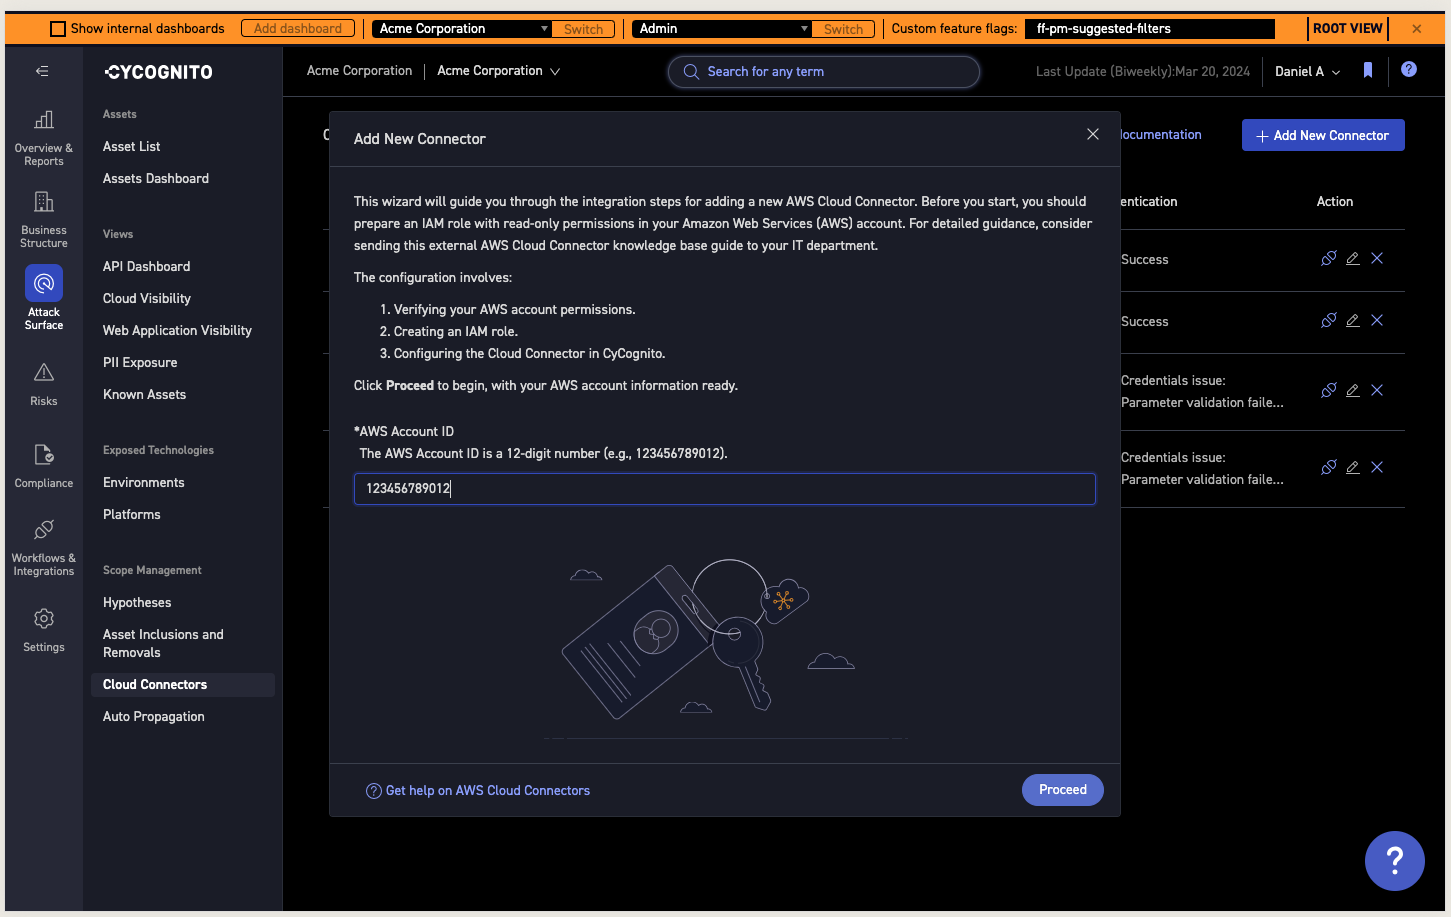
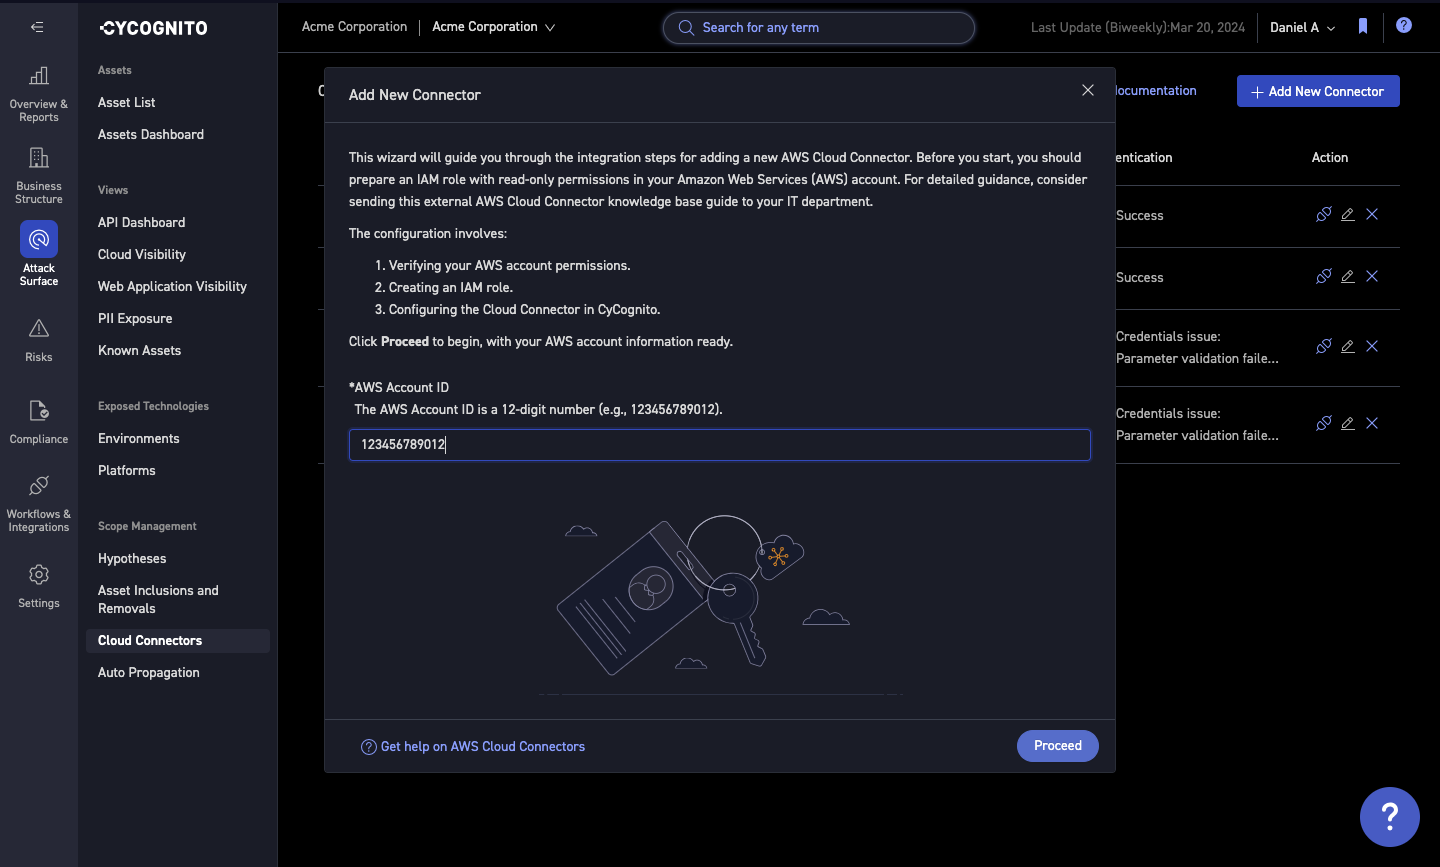
Fix image centering at the actual cause: glightbox's trigger anchor
The earlier centering fix (display: block + margin-inline: auto on img)
only centered each image within its own glightbox anchor, which shrink-wraps
tightly around the image and is itself inline by default -- so the anchor
sat flush left regardless. Center the anchor instead (display: table +
margin-inline: auto, so it shrink-wraps like inline-block but still honors
auto-margin centering), with a full-width override for What-I-do pages so
their glightbox anchor doesn't collapse a width: 100% image down to its
intrinsic size.

Claude-Session: https://claude.ai/code/session_01CMYMMTHiFtCLsuz2LbpPuw

diff --git a/docs/stylesheets/carcharias-material-overrides.css b/docs/stylesheets/carcharias-material-overrides.css
@@ -492,12 +492,40 @@
    without display: block the auto margins below would have no effect and
    the image would sit flush left instead. Every image in the article body
    sits alone on its own line (never mid-sentence), so blockifying every
-   .md-typeset img is safe sitewide. */
+   .md-typeset img is safe sitewide. NOTE: glightbox wraps almost every one
+   of these images in its own <a class="glightbox"> (see .md-typeset
+   .glightbox below) -- centering the img alone only centers it within that
+   inline anchor's own shrink-wrapped box, which has no spare width to
+   center into. The anchor is the box that actually needs the centering;
+   this rule stays too since a couple of things (the hero photo) opt out of
+   glightbox entirely and rely on it directly. */
 .md-typeset img {
   display: block;
   max-width: var(--cs-thumb-width);
   height: auto;
   margin-inline: auto;
+}
+
+/* The actual fix for image centering: glightbox's trigger anchor is inline
+   by default, so it shrink-wraps around the image and then sits flush left
+   (default text-align) instead of centering -- this is what was really
+   causing the "narrower band, left-aligned" look, not the img itself.
+   display: table shrink-wraps to the image's rendered size (unlike block,
+   which would stretch full-width) while still honoring margin-inline: auto
+   centering (unlike inline-block, which only centers via the parent's
+   text-align). */
+.md-typeset .glightbox {
+  display: table;
+  margin-inline: auto;
+}
+
+/* Full-width What-I-do screenshots need the opposite: the anchor has to
+   stay block-level and full-width, or wrapping it in a shrink-wrapped table
+   box breaks the image's own width: 100% (a percentage width is undefined
+   against a shrink-to-fit parent). */
+.cs-feature-figure .glightbox {
+  display: block;
+  width: 100%;
 }
 
 /* Screenshots inside skill cards: contained, rounded, hairline border --
